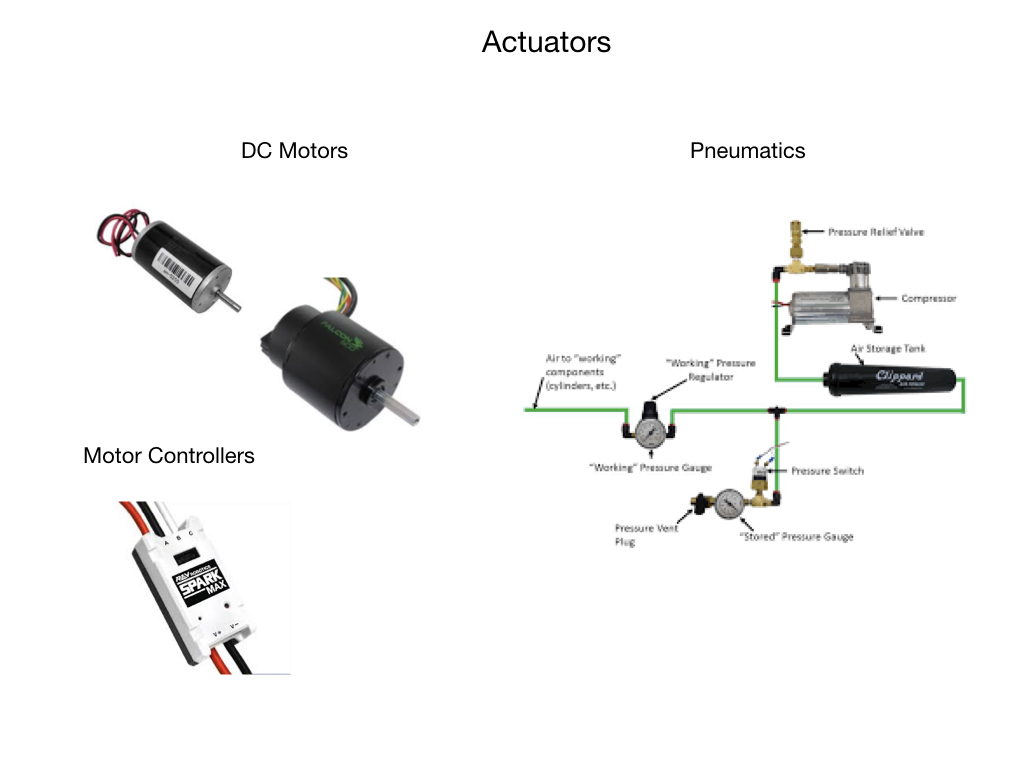
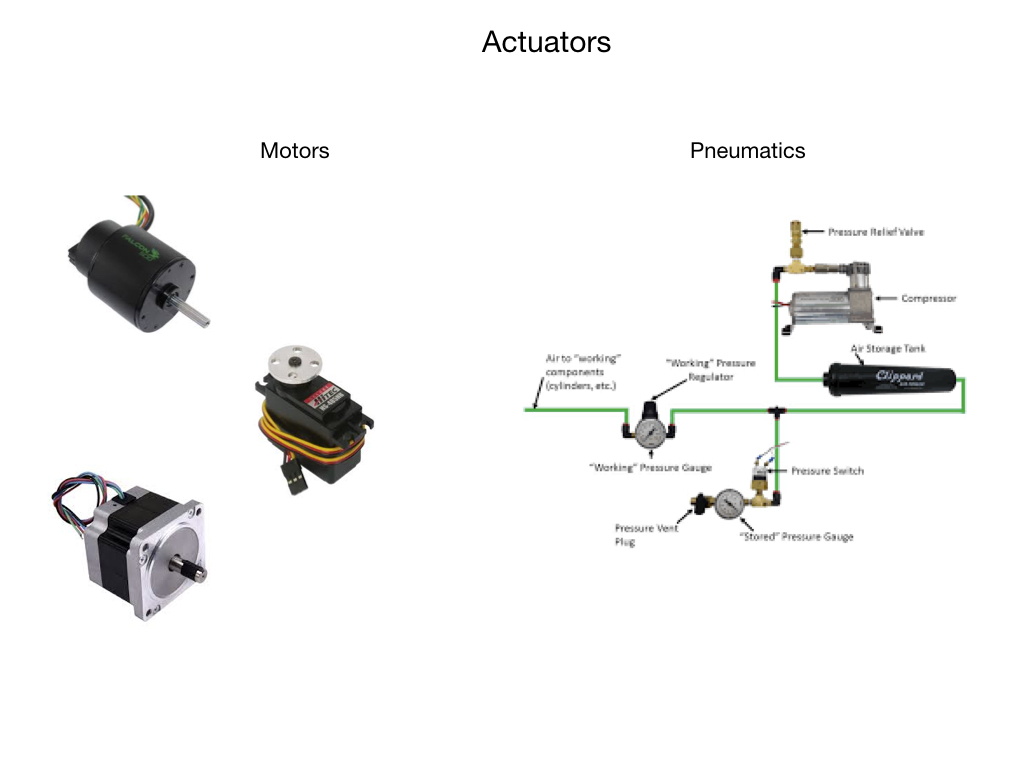
Added Actuator section

Changed region(s): [[0.0312, 0.3438, 0.4062, 0.875], [0.0625, 0.25, 0.25, 0.4375], [0.2188, 0.1875, 0.3438, 0.2188]]

diff --git a/Concepts/RobotSystem/intro.md b/Concepts/RobotSystem/intro.md
@@ -2,6 +2,10 @@
 
 ![Robot System](../../images/FRCConcepts/FRCConcepts.001.jpeg)
 
+The actuators, sensors, and control systems work together to carry out the robots' mission.  The control system will accept the mission commands and calculate a path and trajectory from it's current location to the target location.  It will the determine the control signals it needs to send to the actuators.  The sensors will feed back raw data that the control system will interpret to determine where it is in the path.
+
+![Process](../../images/FRCConcepts/FRCConcepts.008.jpeg)
+
 ## Mechanical Structure
 
 ![Robot System](../../images/FRCConcepts/FRCConcepts.002.jpeg)
@@ -27,24 +31,34 @@ There are two main ways in which sensors interact with the surrounding world:
 
 ![Sensor Types](../../images/FRCConcepts/FRCConcepts.006.jpeg)
 
-### Sensor Performance
-Sensor vary widely in their performance.  When examining sensor performance the following terminology can be used:
-
-- **Range** 
-
-- **Resolution**
-
-- **Linearity**
-
-- **Frequency**
-
 ### Active Ranging and Time-of-Flight
-Robots rely heavily on <i>Active Ranging</i> for obstacle detection and avoidance.  Common active ranging sensors are ultrasonic sensors and laser rangefinders. Active ranging sensors are also used extensively for mapping and localization.  The physics behind these types of sensors is <i>Time-of-Flight</i>.
+Robots rely heavily on <i>Active Ranging</i> for obstacle detection and avoidance.  Common active ranging sensors are ultrasonic sensors and laser rangefinders. Active ranging sensors are also used extensively for mapping and localization.  The physics behind these types of sensors is <i>Time of Flight</i>. Time of Flight is a measurement of the time it takes for a sound or light wave to travel from a emitter and back to a receiver after bouncing off of an object. The time taken is used to calculate the distance, or range, to the object.
 
+![Time of Flight](../../images/FRCConcepts/FRCConcepts.009.jpeg)
 
 # Actuators
+An actuator is a device that takes energy and converts it into mechanical form. For example, a DC motor will convert electrical energy into angular motion, and a pneumatic device will take compressed air and covert it into linear motion.  The command signal for the actuator will come from the controller.  Actuators are the muscles of the robot allowing it to interact with the world around it.
+
 
 ![Robot System](../../images/FRCConcepts/FRCConcepts.004.jpeg)
+
+### Motors
+There are three main types of motor:
+- **Servo Motor**
+      Based on feedback control.  Fast, high torque, very accurate rotation within a limited angle. Suited for robotic arms/legs etc. Servos use a feedback mechanism and other circuitry for positioning.
+
+- **Stepper Motor**
+        Precise angular motion in small steps. Quite slow but easy to control. They have high holding torque. Stepper motors are suited for robot arms, 3D printers and other devices where precise position is critical.
+
+- **DC Motor**
+      Use direct current.  Fast, continuous rotation. Used for anything that needs to spin at a high RPM e.g. car wheels, fans, drills etc.
+
+![Motor Types](../../images/FRCConcepts/FRCConcepts.007.jpeg)      
+
+### Pneumatic Actuators
+Pneumatic actuators work on compressed air.  Used for fast on/off tasks with a high amount of force applied.  No oil leaks as might be the case with hydraulic devices.
+
+![Pneumatic Actuator](../../images/FRCConcepts/FRCConcepts.010.jpeg)
 
 # Motion Control
 - Path and Action Planners
